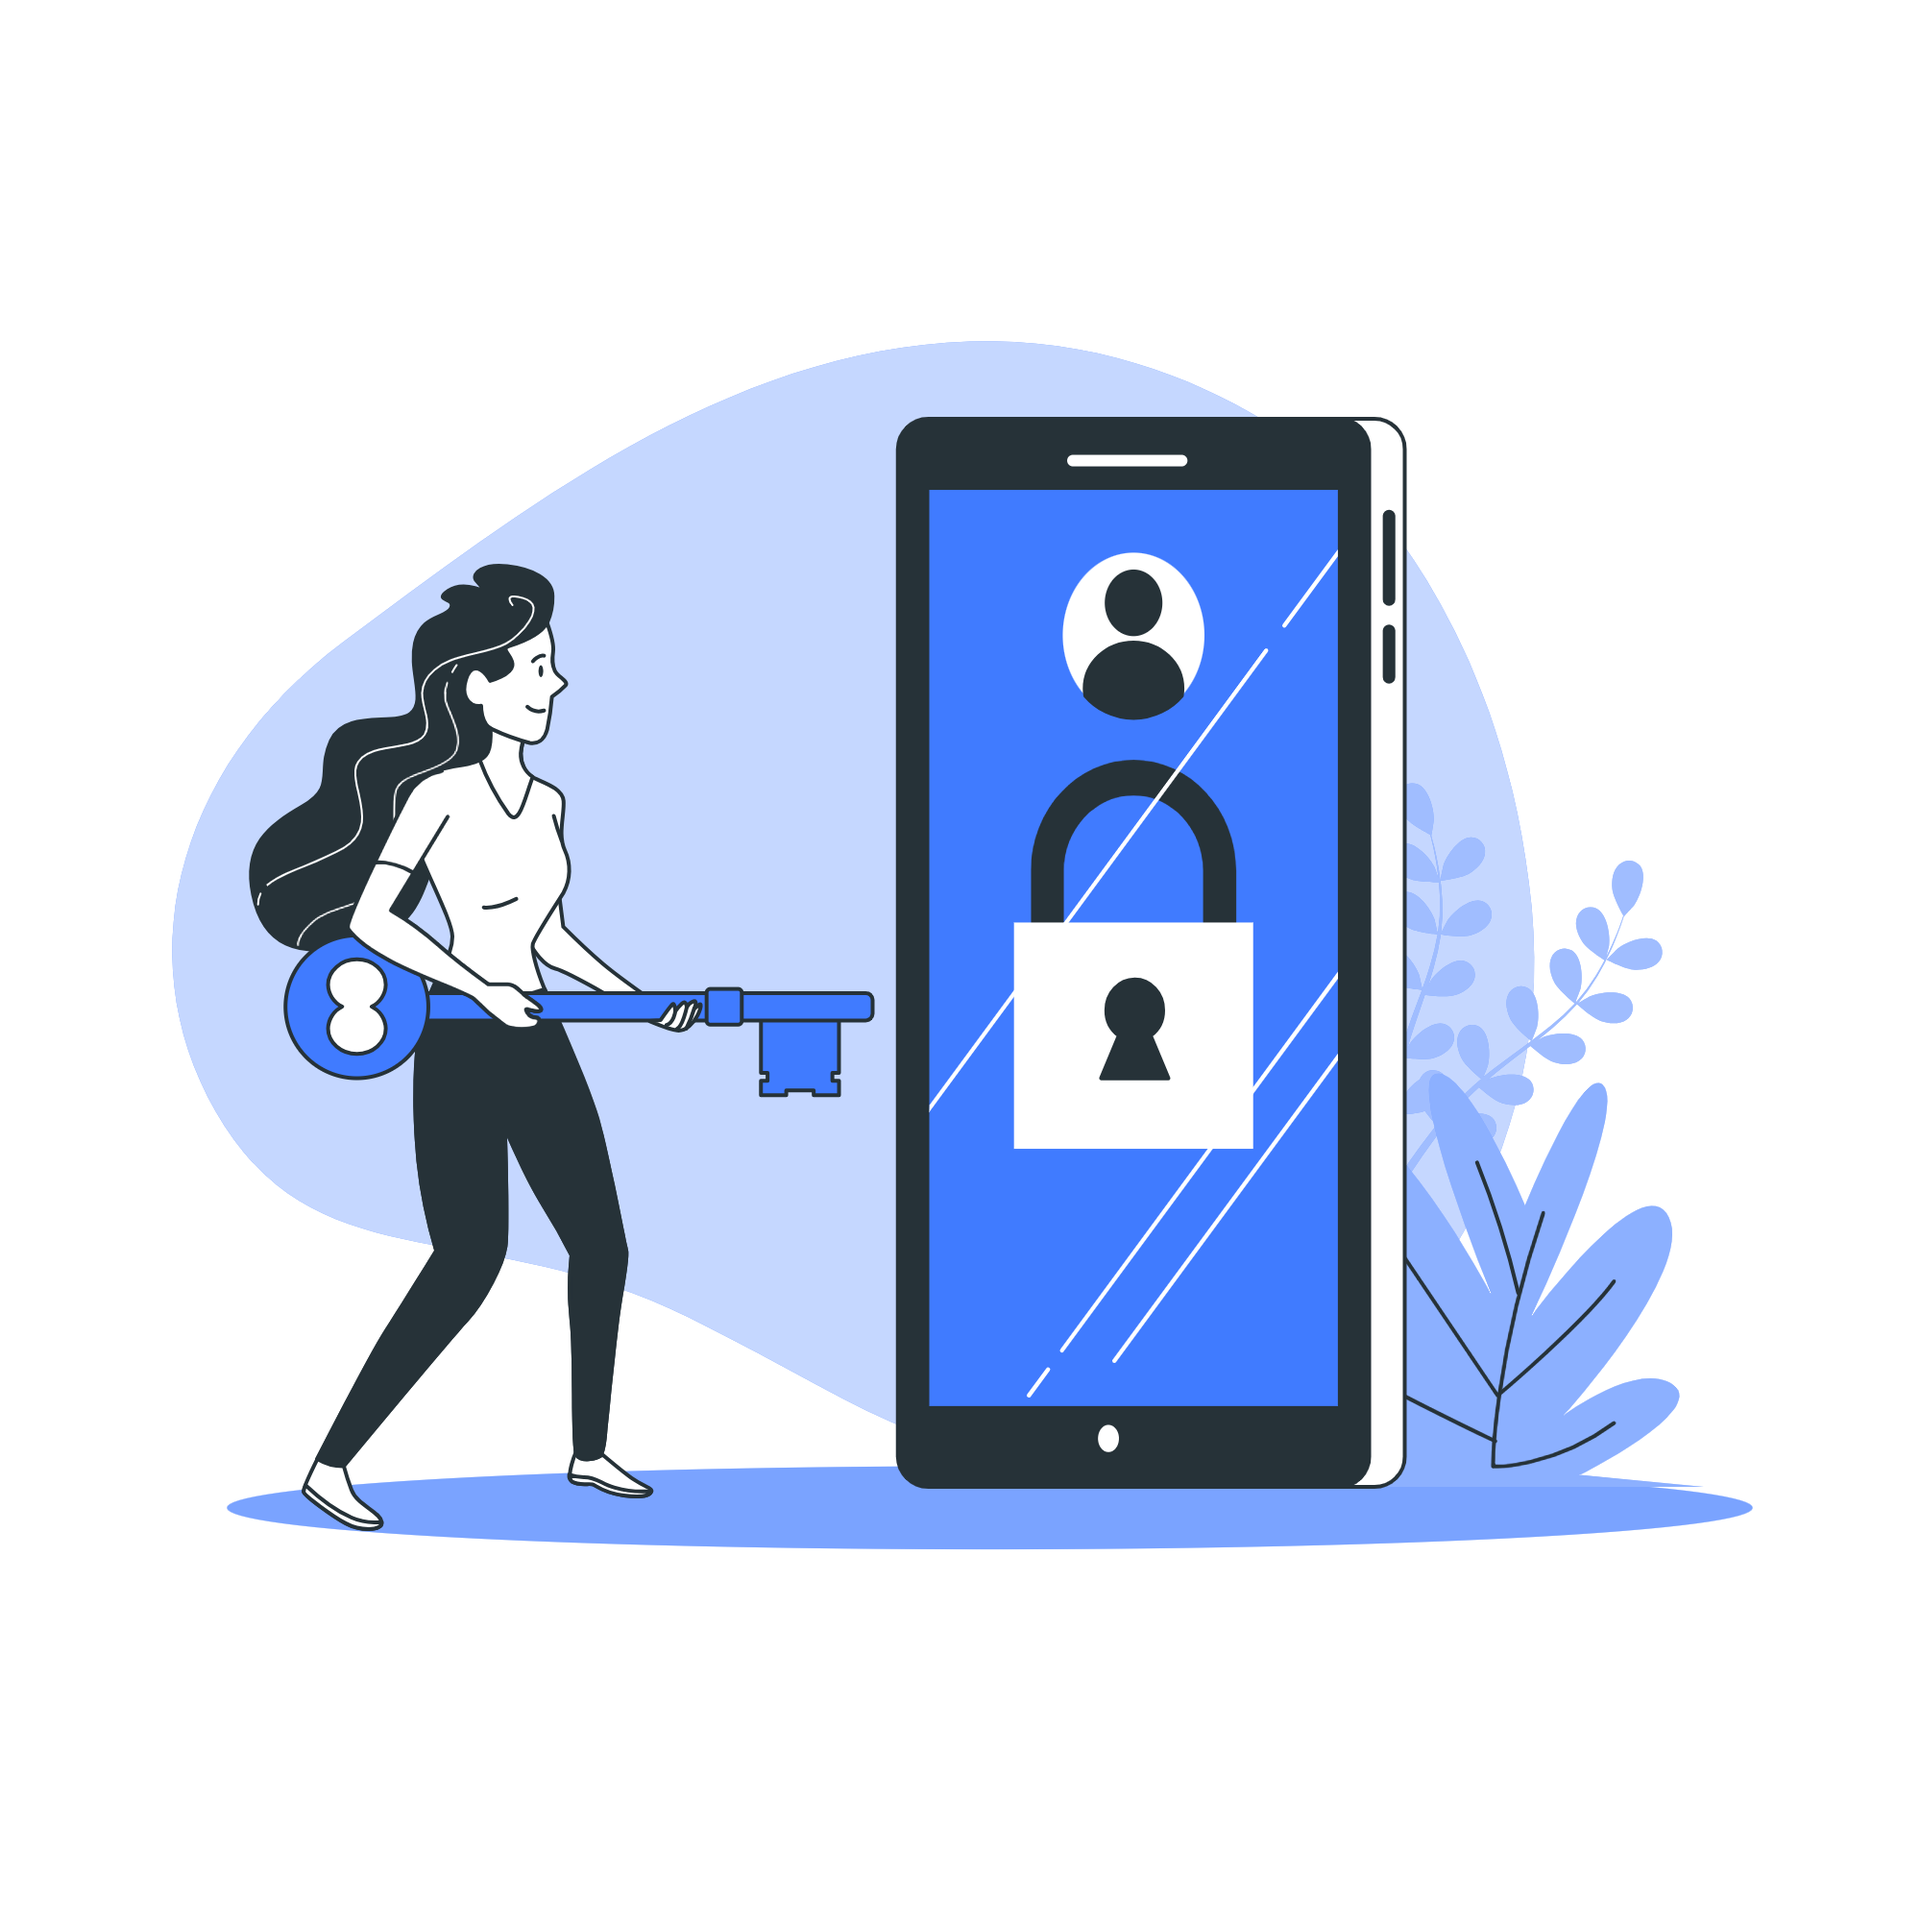
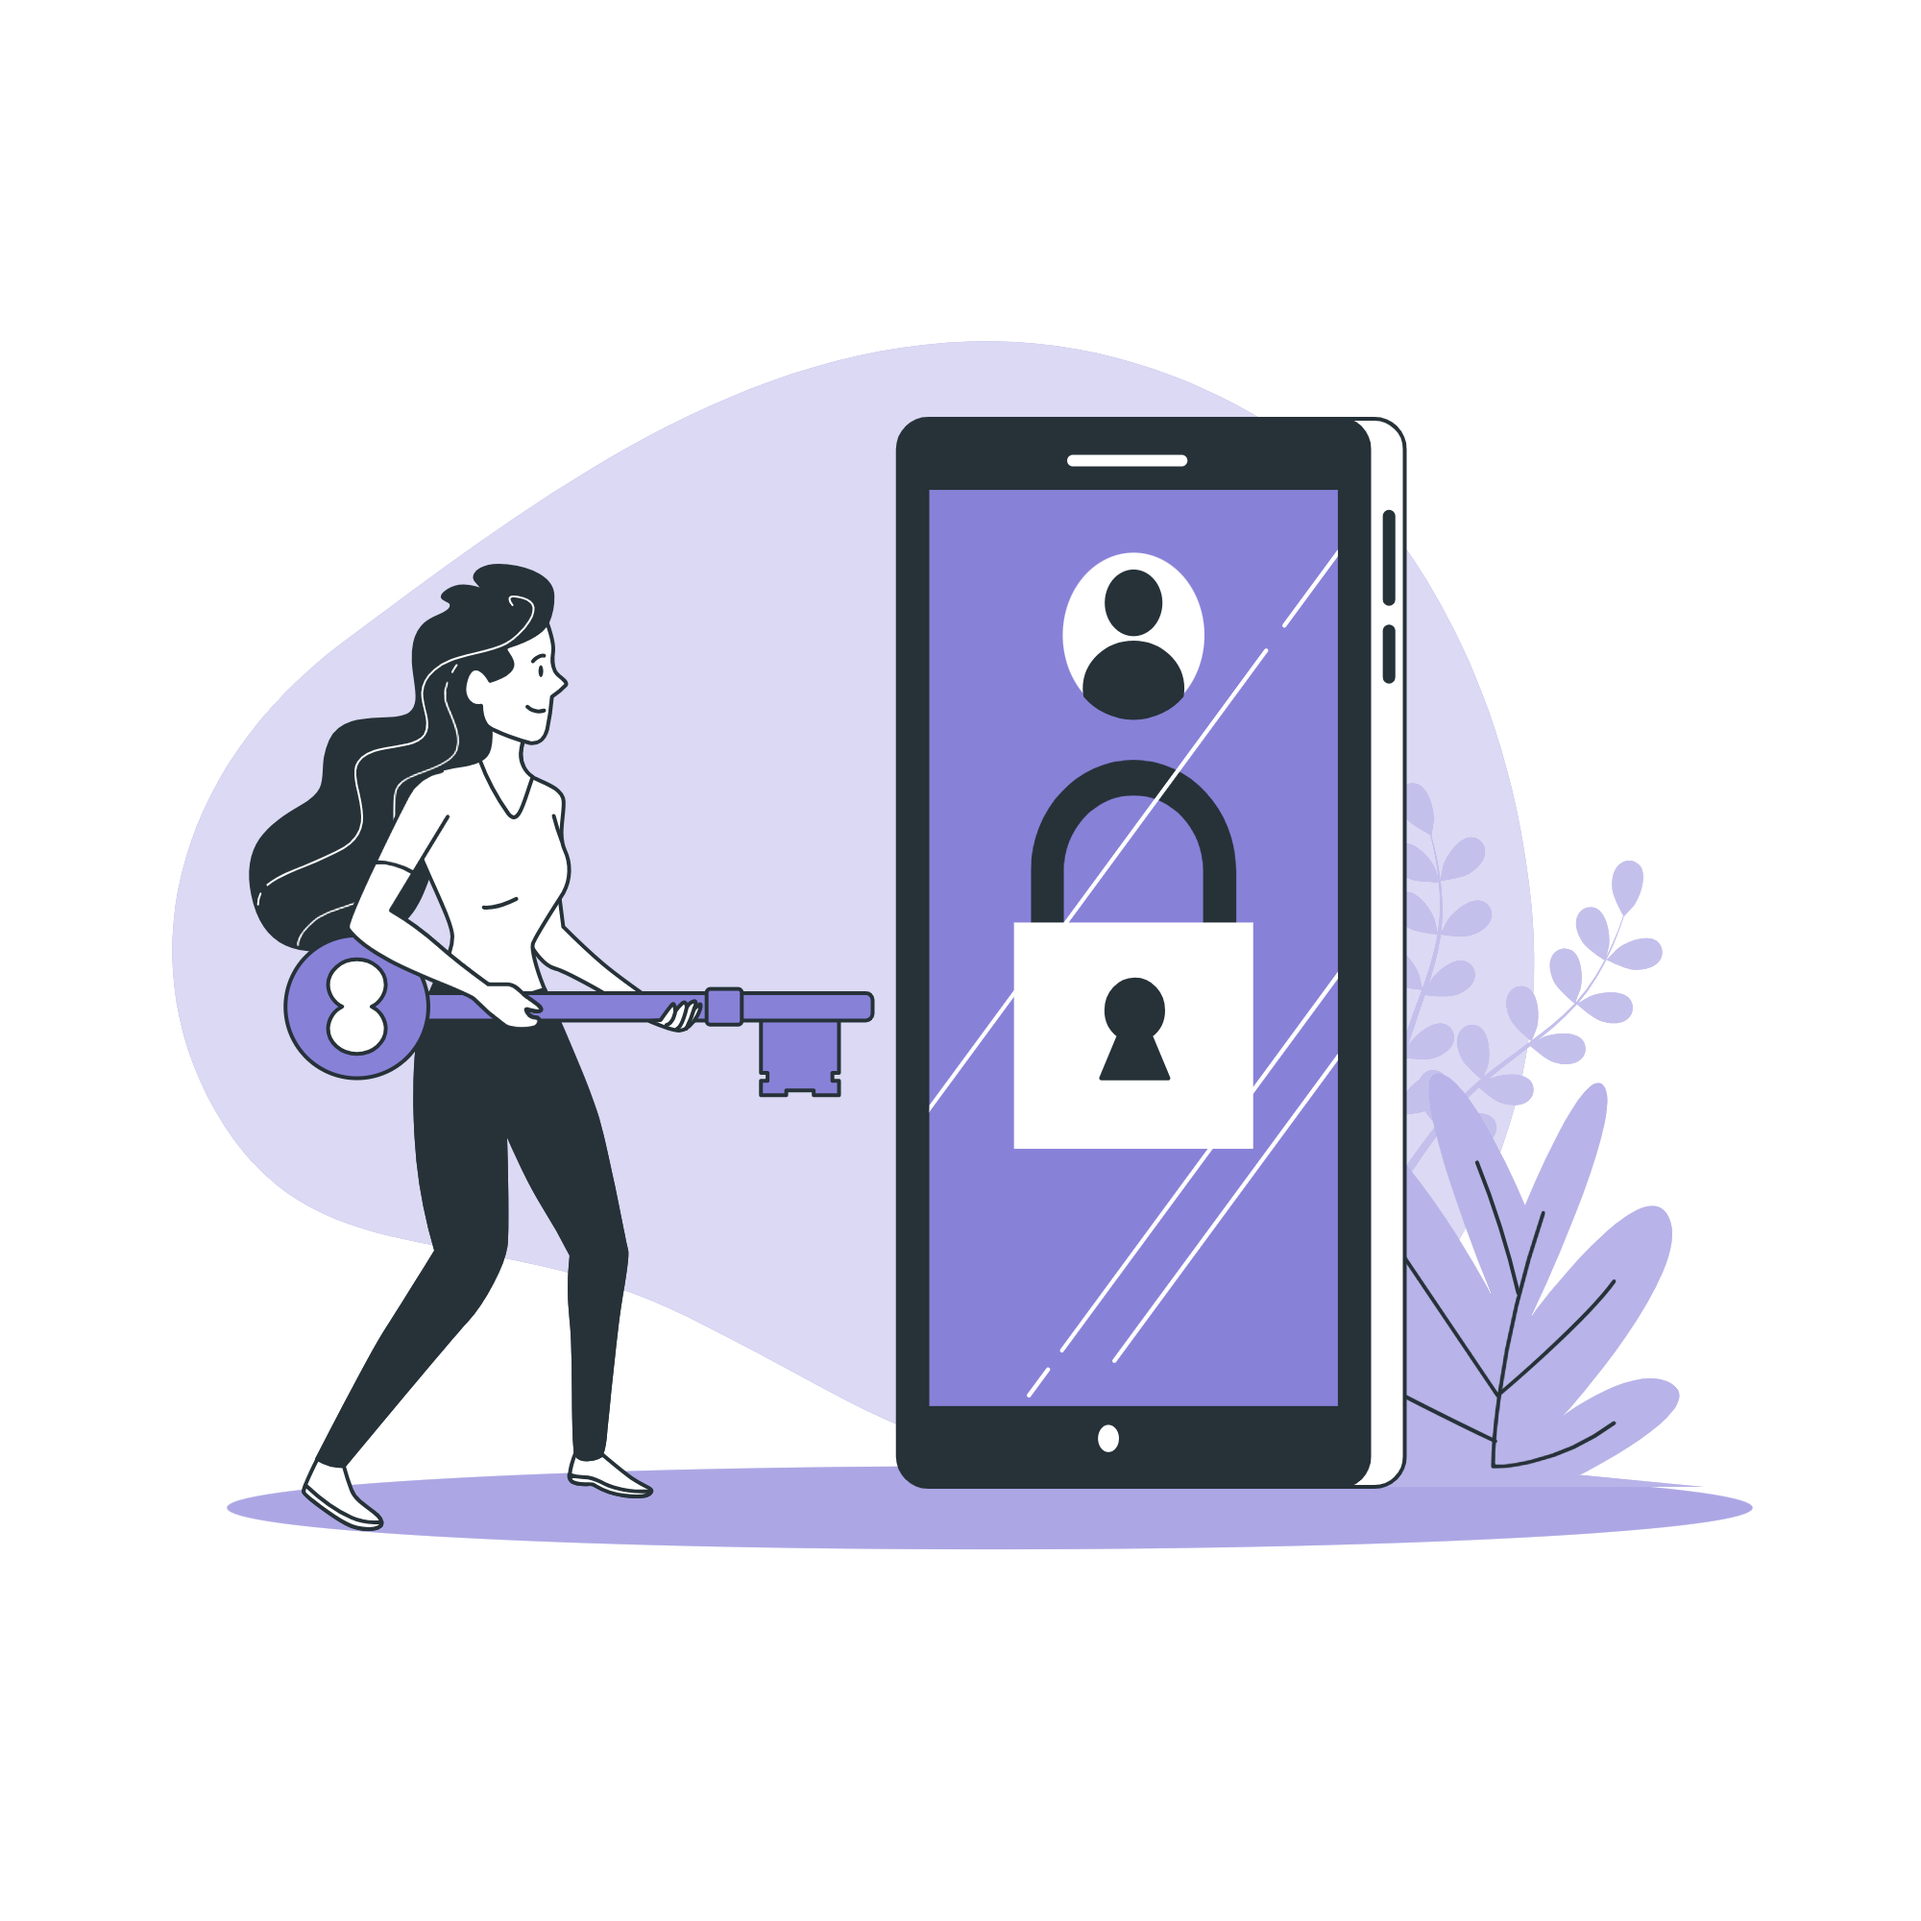
chage color in login and signup screen

Changed region(s): [[0.124, 0.248, 0.93, 0.806], [0.155, 0.465, 0.248, 0.558]]

diff --git a/Screens/SignupScreen.jsx b/Screens/SignupScreen.jsx
@@ -10,12 +10,12 @@ function Signup({navigation}) {
             <Svg
                 height={88}
                 viewBox="0 0 1440 322">
-                <Path fill="#0099ff" d="M0,0L120,32C240,64,480,128,720,138.7C960,149,1200,107,1320,85.3L1440,64L1440,0L1320,0C1200,0,960,0,720,0C480,0,240,0,120,0L0,0Z"></Path>
+                <Path fill="#8881d8" d="M0,0L120,32C240,64,480,128,720,138.7C960,149,1200,107,1320,85.3L1440,64L1440,0L1320,0C1200,0,960,0,720,0C480,0,240,0,120,0L0,0Z"></Path>
             </Svg>
 
             <View style={styles.formContainer}>
                 <View style={styles.formInputs}>
-                    <Icon name="user" size={25} />
+                    <Icon name="user" size={25} color={"#2b284d"} />
                     <TextInput
                         style={styles.inputs}
                         placeholder="User name"
@@ -23,7 +23,7 @@ function Signup({navigation}) {
                     />
                 </View>
                 <View style={styles.formInputs}>
-                    <Icon name="envelope" size={22} />
+                    <Icon name="envelope" size={22}  color={"#2b284d"} />
                     <TextInput
                         style={styles.inputs}
                         placeholder="email"
@@ -31,7 +31,7 @@ function Signup({navigation}) {
                     />
                 </View>
                 <View style={styles.formInputs}>
-                    <Icon name="lock" size={25} />
+                    <Icon name="lock" size={25}  color={"#2b284d"}/>
                     <TextInput
                         style={styles.inputs}
                         placeholder="password"
@@ -39,7 +39,7 @@ function Signup({navigation}) {
                     />
                 </View>
                 <View style={styles.formInputs}>
-                    <MaterialIcon name="password" size={25} />
+                    <MaterialIcon name="password" size={25}  color={"#2b284d"} />
                     <TextInput
                         style={styles.inputs}
                         placeholder="conform Password"
@@ -50,23 +50,24 @@ function Signup({navigation}) {
 
                     <Button
                         title="Sign up"
-                        onPress={()=>navigation.navigate("Home")}
+                        color={"#8881d8"}
+                        onPress={()=>navigation.navigate("TabNavigationRoutes")}
                     />
                 </View>
             </View>
 
-            <Text style={styles.linkText}>Already have an account? <Text style={{ color: "#4287f5" }}
+            <Text style={styles.linkText}>Already have an account? <Text style={{ color: "#8881d8" }}
             onPress={()=>navigation.navigate("Login")}>Log in</Text></Text>
 
             <View style={styles.linkContainer}>
                 <View style={styles.linkBtn}>
-                    <Icon name="facebook" size={20} />
-                    <Text style={{ fontSize: 18 }}>Continue with facebook</Text>
+                    <Icon name="facebook" size={20}  color={"#2b284d"} />
+                    <Text style={{ fontSize: 18,color:"#2b284d" }}>Continue with facebook</Text>
                 </View>
 
                 <View style={styles.linkBtn}>
-                    <Icon name="google" size={20} />
-                    <Text style={{ fontSize: 18 }}>Continue with google</Text>
+                    <Icon name="google" size={20}  color={"#2b284d"} />   
+        <Text style={{ fontSize: 18 ,color:"#2b284d"}}>Continue with google</Text>
                 </View>
             </View>
 
@@ -77,26 +78,19 @@ function Signup({navigation}) {
                     viewBox="0 0 1440 310"
                 >
                     <Path
-                        fill="#0099ff"
+                        fill="#8881d8"
                         d="M0,160L60,176C120,192,240,224,360,245.3C480,267,600,277,720,245.3C840,213,960,139,1080,96C1200,53,1320,43,1380,37.3L1440,32L1440,320L1380,320C1320,320,1200,320,1080,320C960,320,840,320,720,320C600,320,480,320,360,320C240,320,120,320,60,320L0,320Z"
                     />
                 </Svg>
 
-                <View style={{ height: 64, width: "100%", backgroundColor: "#0099ff" }}></View>
+                <View style={{ height: 64, width: "100%", backgroundColor: "#8881d8" }}></View>
             </View>
         </ScrollView>
     )
 }
 
 const styles = StyleSheet.create({
-    screenContainer: {
-        // height:Dimensions.get("window").height,
-        // height:760,
-        backgroundColor: "red",
-    },
-
     waves: {
-        // backgroundColor:"red",
         marginTop: -20,
         zIndex: 1
 
@@ -117,7 +111,6 @@ const styles = StyleSheet.create({
     },
     inputs: {
         fontSize: 16,
-        // backgroundColor:"#ccc",
         width: "80%"
     },
     signupBtn: {
@@ -128,7 +121,7 @@ const styles = StyleSheet.create({
     linkText: {
         textAlign: "center",
         marginTop: 18,
-        fontSize: 16
+        fontSize: 16,
     },
     linkContainer: {
         marginHorizontal: 18,
@@ -144,8 +137,9 @@ const styles = StyleSheet.create({
         gap: 10,
         padding: 10,
         borderWidth: 1,
-        borderColor: "#4287f5",
+        borderColor: "#8881d8",
         borderRadius: 5
+        
     },
 })
 

diff --git a/Screens/LoginScreen.jsx b/Screens/LoginScreen.jsx
@@ -9,7 +9,7 @@ function Login({navigation}) {
         <ScrollView>
             <Svg viewBox="0 0 1440 330"
                 height={90}>
-                <Path fill="#0099ff" d="M0,192L40,170.7C80,149,160,107,240,85.3C320,64,400,64,480,80C560,96,640,128,720,154.7C800,181,880,203,960,202.7C1040,203,1120,181,1200,197.3C1280,213,1360,267,1400,293.3L1440,320L1440,0L1400,0C1360,0,1280,0,1200,0C1120,0,1040,0,960,0C880,0,800,0,720,0C640,0,560,0,480,0C400,0,320,0,240,0C160,0,80,0,40,0L0,0Z"></Path>
+                <Path fill="#8881d8" d="M0,192L40,170.7C80,149,160,107,240,85.3C320,64,400,64,480,80C560,96,640,128,720,154.7C800,181,880,203,960,202.7C1040,203,1120,181,1200,197.3C1280,213,1360,267,1400,293.3L1440,320L1440,0L1400,0C1360,0,1280,0,1200,0C1120,0,1040,0,960,0C880,0,800,0,720,0C640,0,560,0,480,0C400,0,320,0,240,0C160,0,80,0,40,0L0,0Z"></Path>
             </Svg>
 
             <SafeAreaView>
@@ -19,7 +19,7 @@ function Login({navigation}) {
             <View style={styles.formContainer}>
 
                 <View style={styles.formInputs}>
-                    <Icon name="user" size={25} />
+                    <Icon name="user" size={25} color={"#2b284d"} />
                     <TextInput
                         style={styles.inputs}
                         value=""
@@ -28,7 +28,7 @@ function Login({navigation}) {
                 </View>
 
                 <View style={styles.formInputs}>
-                    <Icon name="lock" size={25} />
+                    <Icon name="lock" size={25} color={"#2b284d"}/>
                     <TextInput
                         style={styles.inputs}
                         value=""
@@ -41,7 +41,8 @@ function Login({navigation}) {
                 <View style={styles.logInBtn}>
 
                     <Button
-                        onPress={() => navigation.navigate("Home")}
+                        onPress={() => navigation.navigate("TabNavigationRoutes")}
+                        color={"#8881d8"}
                         title="Loign" />
 
                 </View>
@@ -71,7 +72,6 @@ const styles = StyleSheet.create({
         marginBottom: 20,
     },
     inputs: {
-        // backgroundColor: "#4287f5",
         fontSize: 16,
         width: "80%",
         paddingHorizontal: 12
@@ -94,7 +94,7 @@ const styles = StyleSheet.create({
         marginTop: 12
     },
     specialText: {
-        color: "#4287f5"
+        color: "#8881d8"
     }
 })
 

diff --git a/App.jsx b/App.jsx
@@ -18,13 +18,16 @@ const Auth = () => {
     <Stack.Navigator>
       <Stack.Screen name="Login" component={Login}
         options={{
-          headerStyle: { backgroundColor: "#0099ff" },
-          headerTitleStyle: { color: "white" }
+          headerStyle: { backgroundColor: "#8881d8" },
+          headerTitleStyle: { color: "white" },
+          headerShadowVisible:false
         }} />
       <Stack.Screen name="Signup" component={Signup}
         options={{
-          headerStyle: { backgroundColor: "#0099ff" },
-          headerTitleStyle: { color: "white" }
+          headerStyle: { backgroundColor: "#8881d8" },
+          headerTitleStyle: { color: "white" },
+          headerShadowVisible:false,
+          headerTintColor:"white"
         }} />
     </Stack.Navigator>
 

diff --git a/Screens/SplashScreen.jsx b/Screens/SplashScreen.jsx
@@ -4,7 +4,7 @@ import { StyleSheet, View, Text, Image, Alert } from "react-native";
 const Splash = ({ navigation }) => {
 
     const [animation, setAnimation] = useState(true)
-    const [isAuthenticate, setIsAuthenticate] = useState(true)
+    const [isAuthenticate, setIsAuthenticate] = useState(false)
 
     useEffect(() => {
         setTimeout(() => {
